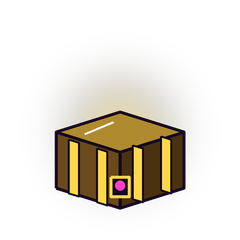
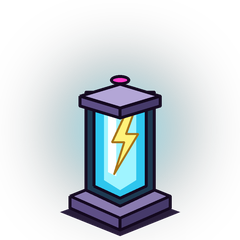
v6.3 : coffres remplacés par capsule/noyau d'énergie, récolte au toucher (bonus points)
Claude-Session: https://claude.ai/code/session_011HZeq7nMyePUSvmzg3f7Gx

diff --git a/index.html b/index.html
@@ -4,7 +4,7 @@
 <meta charset="utf-8">
 <script>if(navigator.standalone)document.documentElement.classList.add('sa')</script>
 <meta name="viewport" content="width=device-width,initial-scale=1,viewport-fit=cover">
-<title>Mechkawaii San 三 v6.2</title>
+<title>Mechkawaii San 三 v6.3</title>
 <link rel="manifest" href="manifest.webmanifest">
 <link rel="icon" type="image/png" href="icons/icon-192.png">
 <link rel="apple-touch-icon" href="icons/apple-touch-icon.png">
@@ -122,7 +122,7 @@ html.sa .screen{padding-top:max(44px,env(safe-area-inset-top))!important}
     <button class="btn" id="bEnd">MODE INFINI</button>
     <button class="btn cy" id="bHelp">COMMENT JOUER</button>
   </div>
-  <div class="foot">Version 6.2 · sol NeoPixel sous les bâtiments</div>
+  <div class="foot">Version 6.3 · capsules d’énergie à récolter</div>
 </main>
 
 <main id="select" class="screen">
@@ -191,7 +191,7 @@ const pick=a=>a[rnd(a.length)];
 const shuffle=a=>{for(let i=a.length-1;i>0;i--){const j=rnd(i+1);[a[i],a[j]]=[a[j],a[i]]}return a};
 
 /* ---------- données ---------- */
-const NAMES={16:'Coffre',17:'Grand coffre',1:'Vis et boulon',2:'Panneau solaire',3:'Petit bâtiment',4:'Usine',5:'Base',6:'Tour',7:'Mechkawaii',8:'Citadelle',9:'Ruines',10:'Balise',11:'Phare',12:'Prodrome',20:'Drone EMP',21:'Cristal'};
+const NAMES={16:'Capsule d’énergie',17:'Noyau d’énergie',1:'Vis et boulon',2:'Panneau solaire',3:'Petit bâtiment',4:'Usine',5:'Base',6:'Tour',7:'Mechkawaii',8:'Citadelle',9:'Ruines',10:'Balise',11:'Phare',12:'Prodrome',20:'Drone EMP',21:'Cristal'};
 const NEXTM={1:2,2:3,3:4,4:5,5:6,9:10,10:11,11:16,16:17};
 const NEXT=t=>NEXTM[t]||0;
 const NEED=t=>3;
@@ -1451,6 +1451,14 @@ function startGame(mode,si,hero){
 const startCampaign=i=>startGame('campaign',i,save.hero);
 const startEndless=()=>startGame('endless',0,save.hero);
 
+function harvest(r,c){ // récolte une capsule/un noyau d'énergie : la pièce disparaît, bonus de points et de pièces
+  const tl=grid[r][c];if(!tl)return;snap();
+  const big=tl.t===17,pts=big?2000:500,co=big?10:3;
+  grid[r][c]=null;G.score+=pts;G.coins+=co;
+  burst(r,c,big?26:16,big?['#ff3ec8','#ffffff','#3ee0ff']:['#3ee0ff','#fff27a','#ffffff']);
+  sfx.crystal?sfx.crystal():sfx.place();toast((big?'NOYAU RÉCOLTÉ +':'CAPSULE RÉCOLTÉE +')+pts+' · +'+co+' pièces',1300);
+  G.sel=null;updateHud();
+}
 function onCell(r,c,pt){
   if(!G||G.busy||G.over)return;
   const same=G.sel&&G.sel[0]===r&&G.sel[1]===c;
@@ -1491,7 +1499,7 @@ function drawHeroTo(cv,id,f=0){const g=cv.getContext('2d');g.imageSmoothingEnabl
 function tickScore(){if(!G)return;if(G.shown<G.score){G.shown=Math.min(G.score,G.shown+Math.max(1,Math.ceil((G.score-G.shown)/8)))}$('hScore').textContent=G?G.shown:0}
 
 
-/* ---------- essai HD (v6.2) : sprites et tuiles haute résolution, ?hd=0 pour revenir au pixel art ---------- */
+/* ---------- essai HD (v6.3) : sprites et tuiles haute résolution, ?hd=0 pour revenir au pixel art ---------- */
 const HD={roads:(location.search.match(/[?&]roads=(\w+)/)||[])[1]||'new',p:{},on:!/[?&]hd=0/.test(location.search),set:((location.search.match(/[?&]set=(\w+)/)||[])[1]||'mix'),tiles:null,b:{},n:0,cache:new Map(),CELL:128};
 const HDNP=HD.set==='np';HD.dir=HDNP?'assets/np/':HD.set==='mix'?'assets/mix/':'assets/hd/';HD.G0=HDNP?14:34;HD.G1=HDNP?114:94;HD.T1=HDNP?14:28; // terrain NeoPixel par défaut ; ?set=ref pour le terrain de la planche
 (function(){if(!HD.on)return;const ld=(src,cb)=>{const im=new Image();im.onload=()=>{cb(im);HD.n++;groundKey='';HD.cache.clear();try{if(G)updateHud()}catch(e){}};im.src=src};
@@ -1780,6 +1788,7 @@ function holdEnd(){clearTimeout(holdT);if(holdOn){hideRecipe();holdOn=false}}
 $('curSlot').addEventListener('pointerdown',()=>{if(G&&G.cur)holdStart(G.cur)});
 board.addEventListener('pointerdown',e=>{e.preventDefault();au();musicStart();const p=cellFromEvent(e);if(!p)return;
   const tl=grid[p[0]][p[1]];
+  if(tl&&(tl.t===16||tl.t===17)&&!G.armed&&!G.busy&&!G.over&&G.cur!==20&&!G.swapA){harvest(p[0],p[1]);return}
   if(tl&&!G.armed&&!G.busy&&G.cur!==20&&!G.swapA){holdStart(tl.t,tl.v);return}
   if(e.pointerType!=='mouse'&&G&&!G.busy&&!G.over&&valid(p[0],p[1])){ // doigt : on voit l'effet tant qu'on appuie, on pose en relâchant
     G.drag=e.pointerId;G.sel=p;try{board.setPointerCapture(e.pointerId)}catch(x){}return}
@@ -1869,7 +1878,7 @@ function helpModal(){
   <ul>
    <li>Touchez une case pour y poser la pièce.</li>
    <li>3 pièces identiques côte à côte fusionnent en la suivante. À 4, c'est un <b>SUPER</b> bonus.</li>
-   <li>Les <b style="color:#34c80a">Prodromes</b> bougent à chaque tour. Encerclés, ils deviennent des ruines (3 ruines → balise → phare → coffre).</li>
+   <li>Les <b style="color:#34c80a">Prodromes</b> bougent à chaque tour. Encerclés, ils deviennent des ruines (3 ruines → balise → phare → capsule d’énergie). Touche une capsule ou un noyau pour le récolter : points bonus !</li>
    <li><b>Drone EMP</b> : détruit une pièce. <b>Cristal</b> : devient la pièce qui fusionne le mieux.</li>
    <li><b>Maintiens ton doigt</b> sur une pièce pour voir sa recette de fusion.</li>
    <li>Ton <b>héros</b> a un pouvoir unique, gratuit mais avec temps de recharge (en tours).</li>
